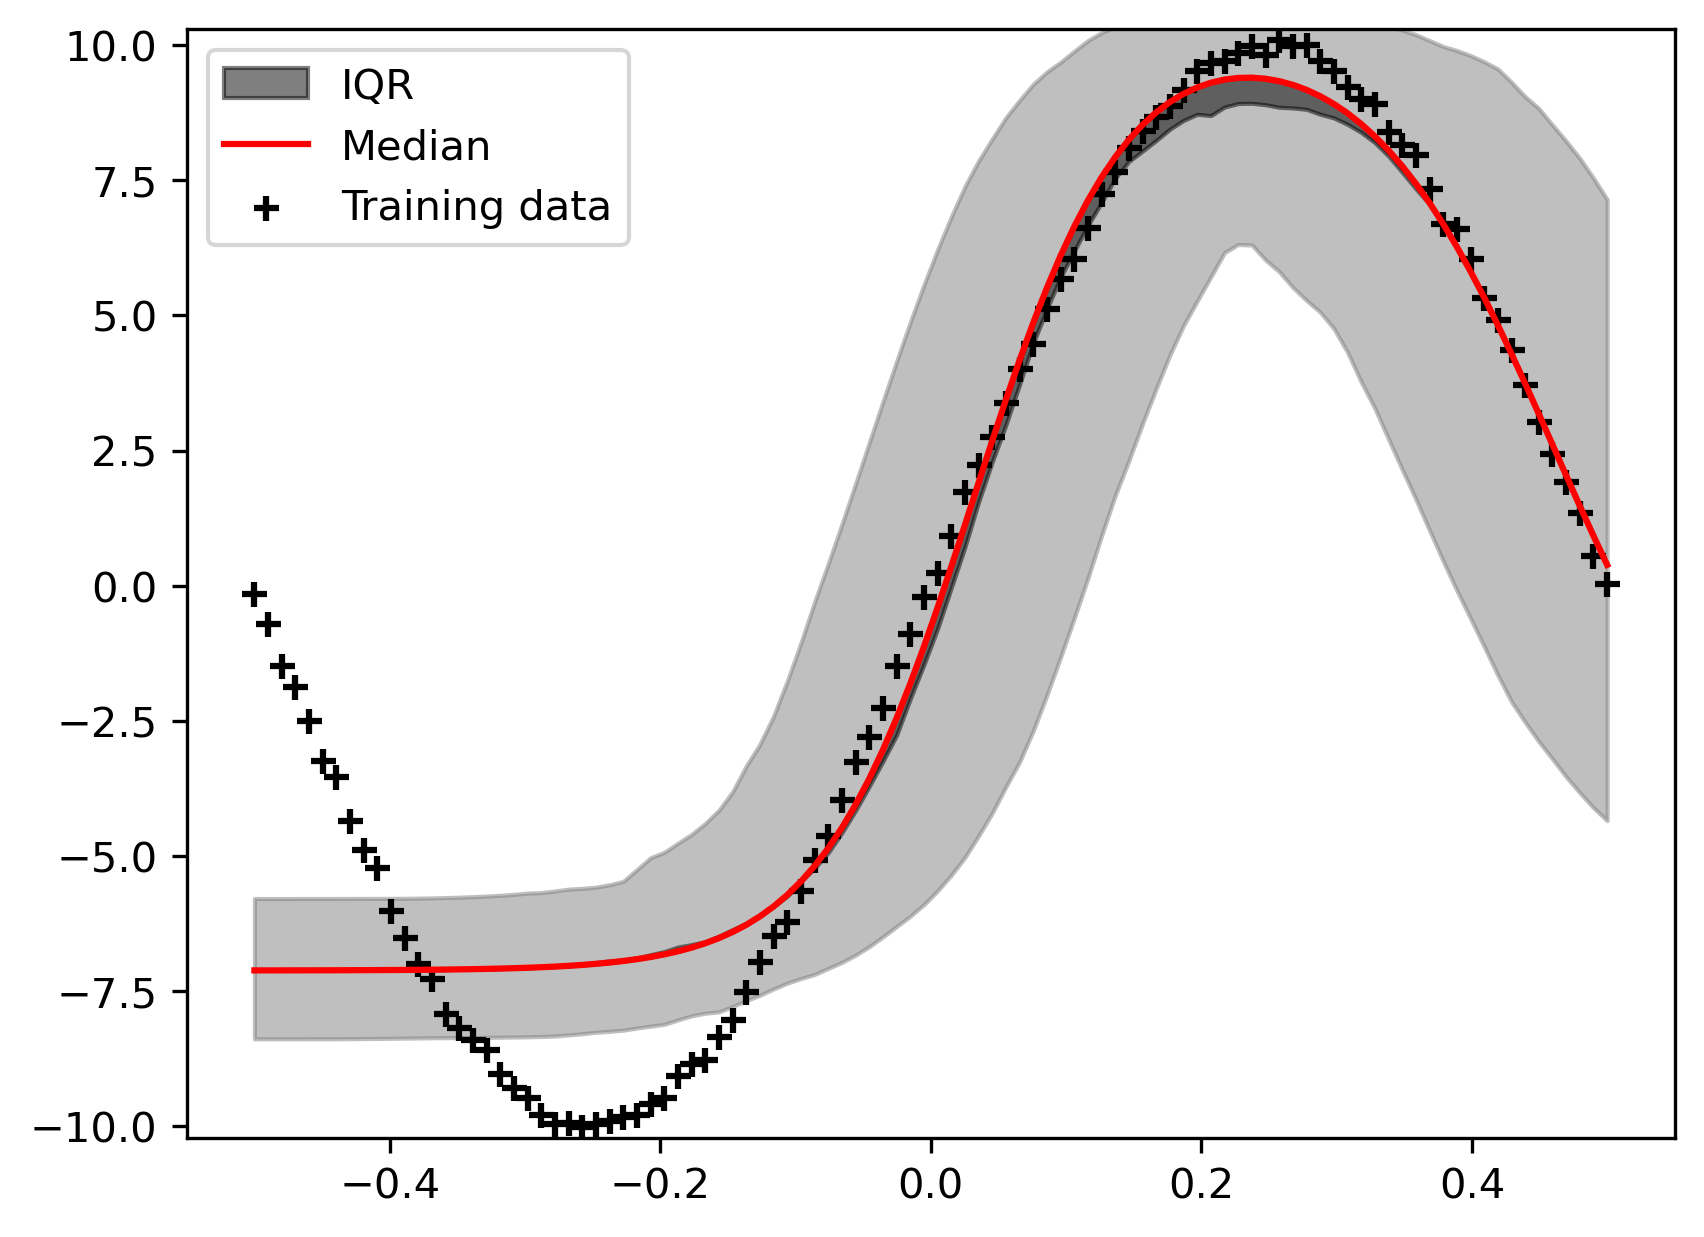
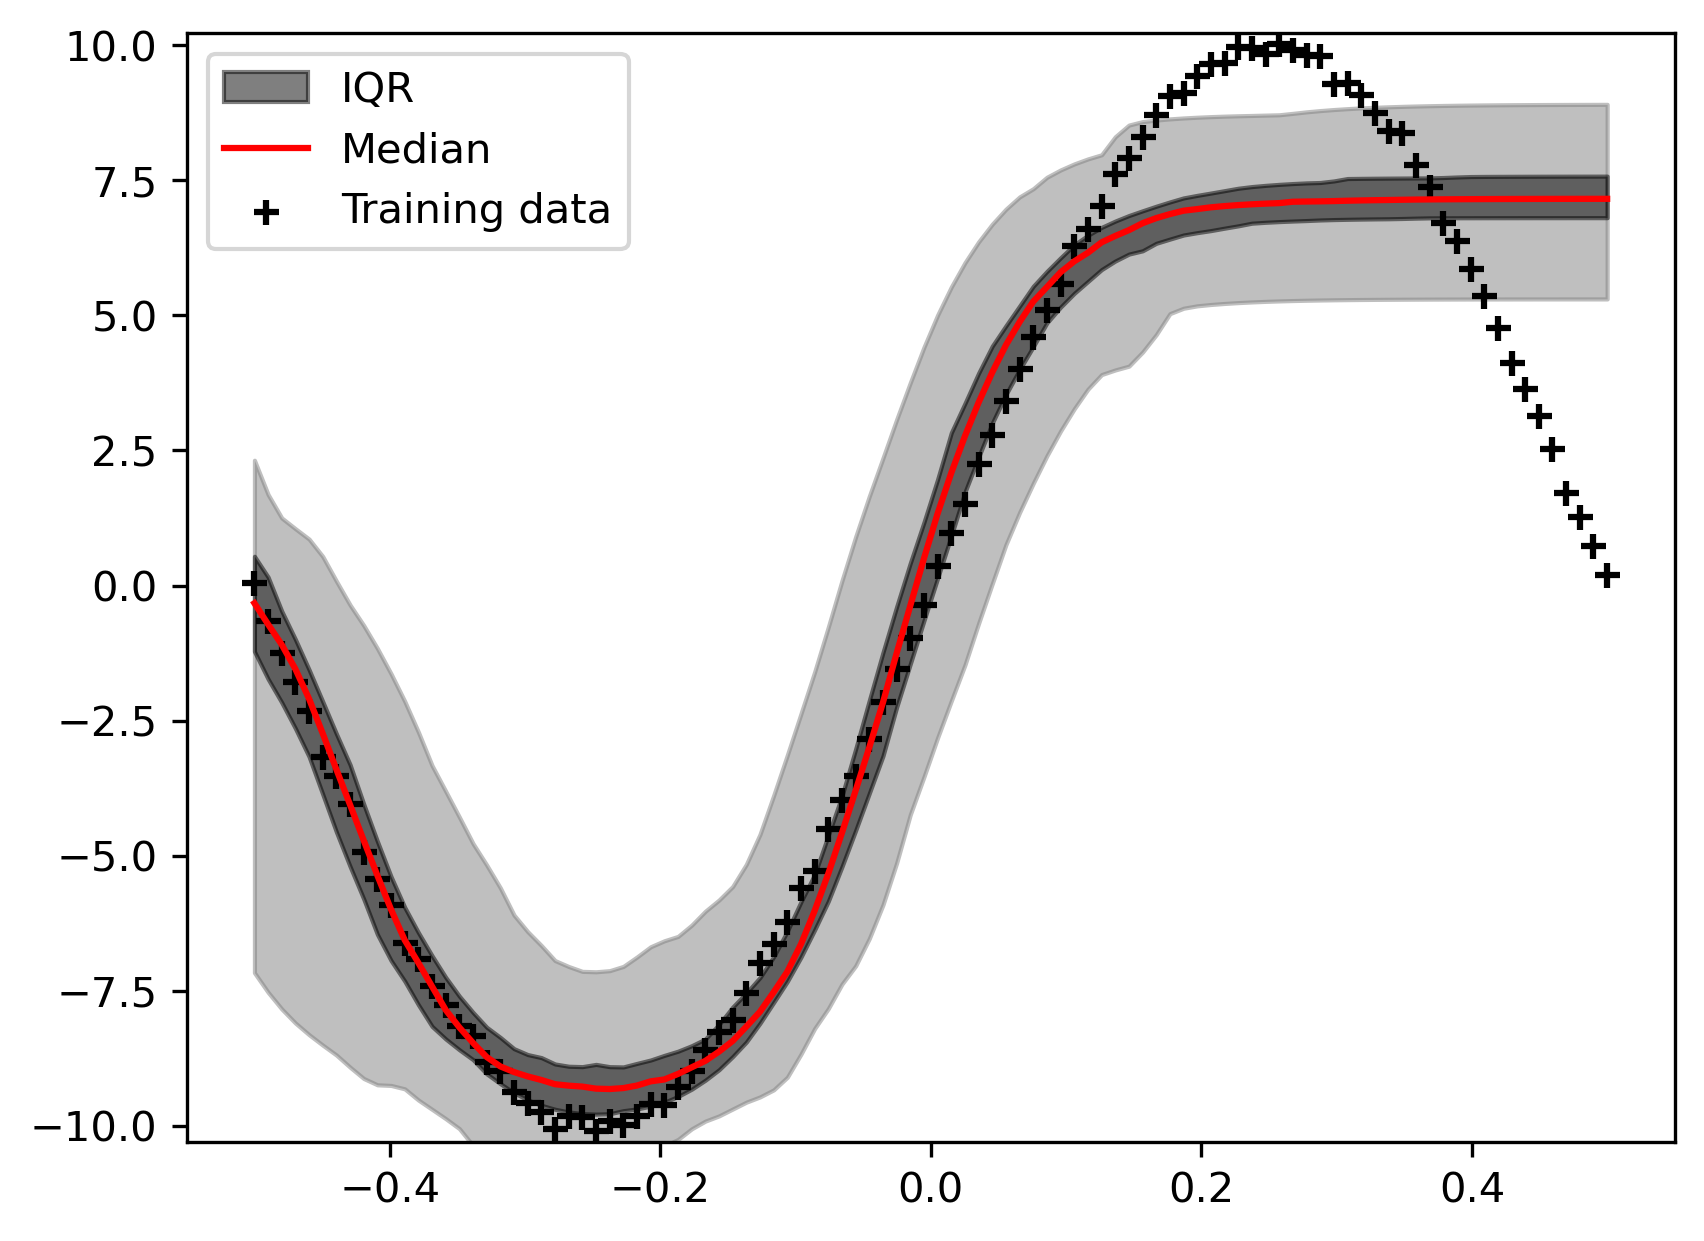
movie2.0 update

diff --git a/movie2.0.py b/movie2.0.py
@@ -5,7 +5,7 @@ import torch.nn as nn
 import time
 from utils import BNN
 
-# plt.ion()
+plt.ion()
 
 # Un jour on saura coder sur GPU
 device = torch.device("cuda:0" if torch.cuda.is_available() else "cpu")
@@ -102,7 +102,7 @@ for j in range(0, l):
     rho_n, indices = torch.sort(rho_n, 0)
     thetas = thetas[:, indices.t()[0]]
 
-    epsilon_j = rho_n[int(N*P0)]
+    epsilon_j = rho_n[NP0]
 
     # # Lr
     # rho_nOld = rho_n
@@ -111,22 +111,57 @@ for j in range(0, l):
     # en créer N à partir de cette échantillion en fesant
     # (invPO - 1) pas
     thetasSeeds = thetas[:, :NP0]
+    rhoSeeds = rho_n[:NP0]
 
     # Réglage de la température
     Tcur = TOld
 
-    # reglage de sigma_j
+    # Réglage de sigma_j
     sigma_j = sigma_0
+
+    #
+    thetas = thetasSeeds
+    rho_n = rho_n[:NP0]
 
     for g in range(invP0 - 1):
         # for debugging purposes
         l_eps.append(epsilon_j)
         thetasResamples = torch.normal(thetasSeeds, sigma_j)
 
-        # On evalue
-        # Evaluating performaces
+        # On evalue les erreurs
         y_hatsResamples = torch.concat(
             tuple([BNN.FNN(ns, thetasResamples[:, i]).forward(XT) for i in range(0, NP0)]), 1)
         rho_nResamples = torch.cdist(y_hatsResamples.t(), y.t(), p=pdist)
 
-    print("blip")
+        # On évalue l'amélioration
+        ameRho = rho_nResamples - rhoSeeds
+        ameTheta = thetasResamples - thetasSeeds
+
+        # On voit si on avance dans le sens du gradient ou pas
+        # Si il y a une amélioration on avance
+        # Sinon, on remonte avec une proba de 1/ 1 + exp( - (1/ Tcur) * Grad)
+        avanceOuNon = torch.bernoulli(
+            1 / (1 + torch.exp(- (1/Tcur) * (ameRho))))
+        avanceOuNon[ameRho > 0] = 1
+
+        # ThetaFinal = ThetaResample - mask * (ThetaResample - ThetaSeed)
+        mask = torch.diag(avanceOuNon[:, 0].float())
+
+        #
+        thetasSeeds = thetasResamples - torch.matmul(ameTheta, mask)
+        thetas = torch.concatenate((thetas, thetasSeeds), 1)
+        rhoSeeds = rho_nResamples
+        rho_n = torch.concatenate((rho_n, rhoSeeds))
+
+    plt.clf()
+    BNN.plotTubeMedian(XT, y, thetas, ns)
+    plt.show()
+    plt.pause(0.1)
+
+plt.clf()
+BNN.plotTubeMedian(XT, y, thetas, ns)
+
+# save the figure
+plt.savefig('plot.png', dpi=300, bbox_inches='tight')
+plt.show()
+plt.pause(0.1)
